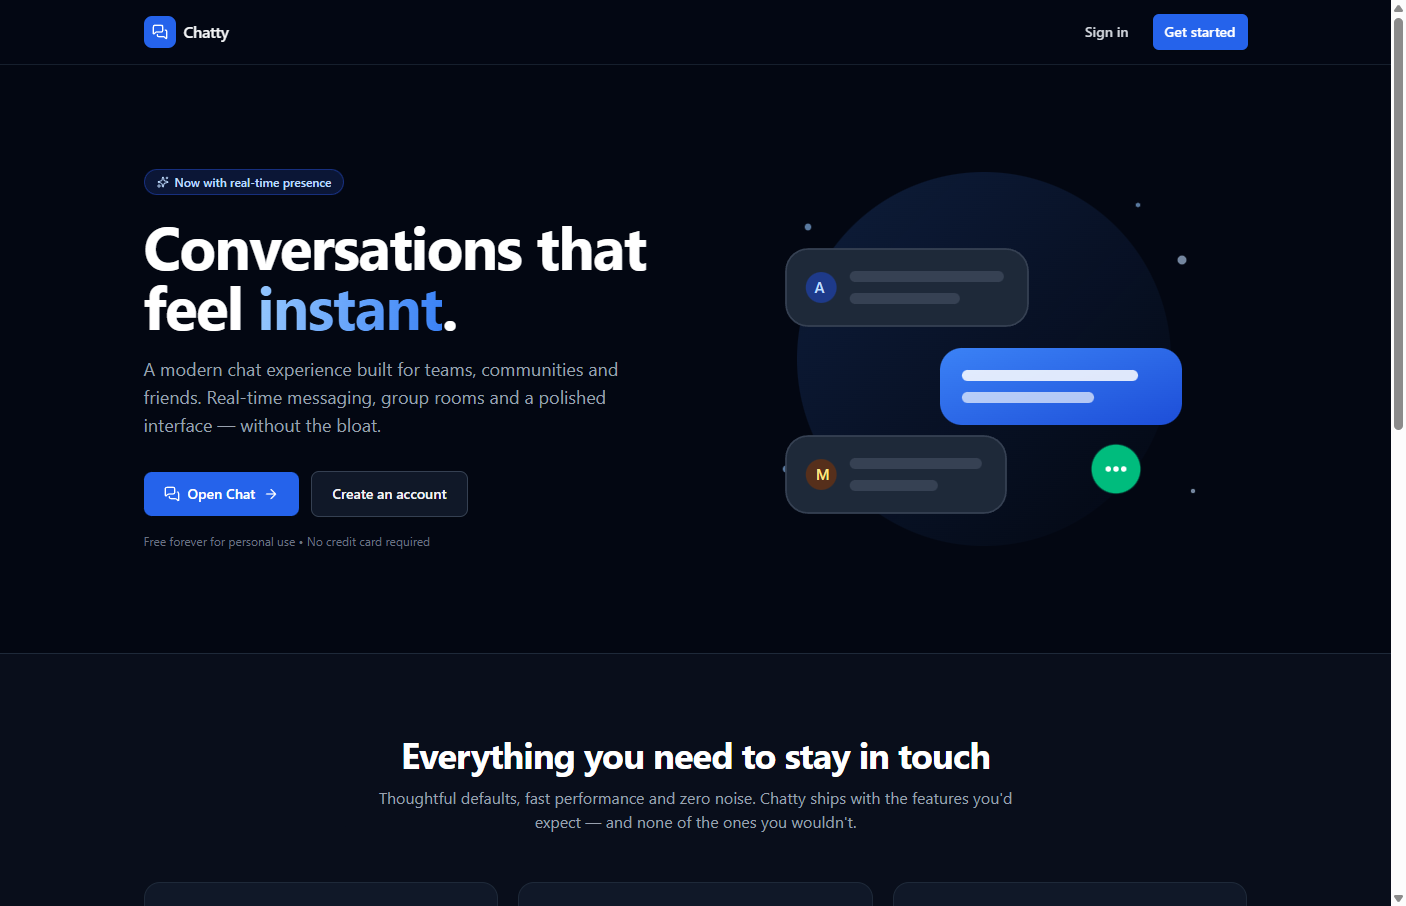
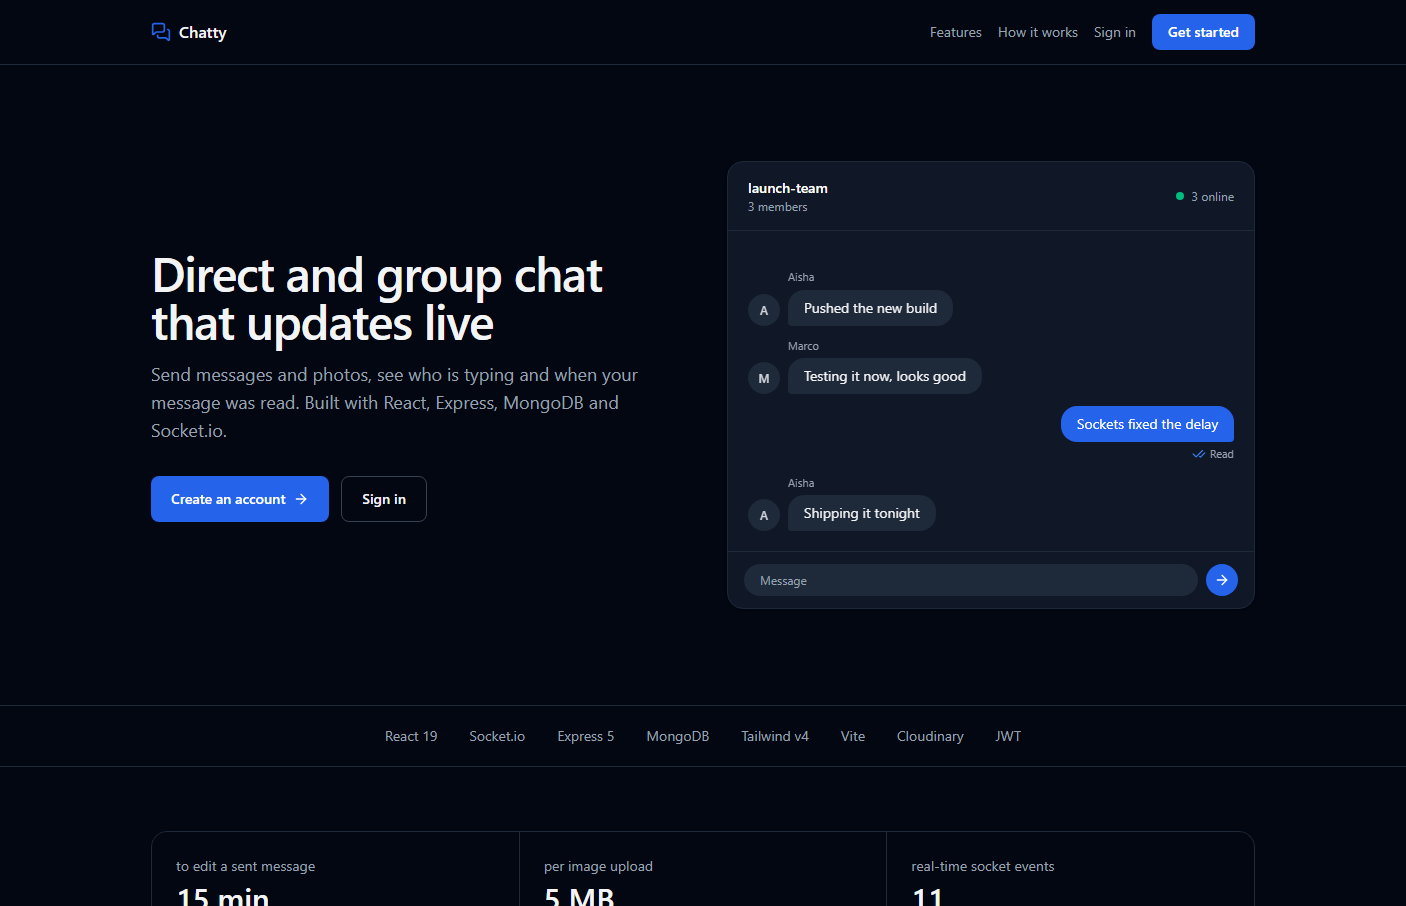
docs: redesign README with screenshots and diagrams

diff --git a/README.md b/README.md
@@ -1,105 +1,186 @@
+<div align="center">
+
 # Chatty
 
-A real-time chat app built with the MERN stack. Direct messages, group chats, typing indicators, read receipts, image sharing, and an admin panel for handling reports.
+**Direct and group chat that updates live.**
+Messages, typing indicators, read receipts and images, built on the MERN stack with Socket.io.
 
-Live demo: https://chat-app-mernn.netlify.app (the free Render backend sleeps when idle, so the first request can take about 30 seconds)
+[Live demo](https://chat-app-mernn.netlify.app) · [Screenshots](#screenshots) · [How it works](#how-it-works) · [Run it locally](#run-it-locally)
 
-![Chat screen](assets/screenshots/chat.png)
+<br />
 
-## Features
+<img src="assets/screenshots/chat.png" alt="Chatty chat screen in dark mode" width="900" />
 
-- Direct and group chats that update live over Socket.io
-- Typing indicator, online status, and sent/read ticks
-- Image messages (uploaded to Cloudinary), replies, reactions, and in-chat search
-- Edit a message for 15 minutes after sending, or delete it for everyone
-- Mute, archive, and block. You can hide your online status and read receipts
-- Notifications: in-app, browser, and sound
-- Admin panel: users, reports, suspensions, and an audit log of admin actions
-- Light and dark themes
+</div>
 
-## Stack
+<br />
 
-| Part | Tech |
+## What it does
+
+| | |
 |---|---|
-| Frontend | React 19, Vite, Tailwind CSS v4, React Router, Axios, socket.io-client |
-| Backend | Node, Express 5, Socket.io, Mongoose, JWT, bcrypt, express-validator |
-| Storage | MongoDB for data, Cloudinary for images |
-| Hosting | Netlify (client), Render (server) |
+| **Live messaging** | Messages arrive instantly over Socket.io, with typing indicators, online status and sent/read ticks |
+| **Groups** | Create a group, add people, promote admins, rename or leave |
+| **Rich messages** | Images (stored on Cloudinary), replies, reactions, edits within 15 minutes, delete for everyone |
+| **Search** | Find people by name, or search inside a conversation |
+| **Notifications** | In-app, browser and sound alerts, with per-chat mute |
+| **Privacy** | Hide your online status or read receipts, block users, report abuse |
+| **Admin panel** | Manage users, review reports, suspend accounts, and see an audit log of every admin action |
+| **Themes** | Light and dark, plus font size, density and reduced-motion settings |
 
-## How it fits together
+## Screenshots
 
+<table>
+  <tr>
+    <td width="50%"><img src="assets/screenshots/landing.png" alt="Landing page" /></td>
+    <td width="50%"><img src="assets/screenshots/chat-light.png" alt="Chat in light mode" /></td>
+  </tr>
+  <tr>
+    <td align="center"><sub>Landing page</sub></td>
+    <td align="center"><sub>Chat in light mode</sub></td>
+  </tr>
+  <tr>
+    <td width="50%"><img src="assets/screenshots/login.png" alt="Sign in" /></td>
+    <td width="50%"><img src="assets/screenshots/register.png" alt="Create account" /></td>
+  </tr>
+  <tr>
+    <td align="center"><sub>Sign in</sub></td>
+    <td align="center"><sub>Create account</sub></td>
+  </tr>
+</table>
+
+## How it works
+
+```mermaid
+flowchart LR
+    A["React app<br/>(Vite + Tailwind)"] -- "REST + JWT" --> B["Express API"]
+    A <-- "Socket.io<br/>(same JWT)" --> C["Socket server"]
+    B --> D[("MongoDB")]
+    C --> D
+    B -- "image upload" --> E[("Cloudinary")]
 ```
-React app  --HTTP (Axios + JWT)-->  Express API  ---->  MongoDB
-    ^                                   |
-    |                                   +--> Cloudinary (images)
-    +------- WebSocket (Socket.io) <----+
-```
 
-- **REST** handles anything that needs a reply: logging in, loading old messages, uploading images.
-- **Socket.io** pushes live events: new messages, typing, presence, read receipts, notifications.
-- Each user joins a socket room named after their user id, and each conversation has its own room. The server emits to a room, and everyone in it gets the event.
+The app talks to the server in two ways:
 
-### Login
-
-1. The client posts email and password to `/api/auth/login`.
-2. The server checks the password against the bcrypt hash and signs a JWT.
-3. The client stores the token, and an Axios interceptor sends it as `Authorization: Bearer <token>` on every request.
-4. The `protect` middleware verifies the token and loads the user, so a suspended user is blocked straight away.
-5. The socket connection sends the same token, so HTTP and WebSocket share one identity.
+- **REST** for anything that needs an answer: signing in, loading older messages, uploading an image.
+- **Socket.io** for anything the server needs to push: new messages, typing, presence, read receipts, notifications.
 
 ### Sending a message
 
-1. The client emits `message:send` over the socket.
-2. The server checks that the sender is in the conversation and is not blocked, then saves the message to MongoDB.
-3. The server emits `message:new` to the conversation room, so everyone in the chat sees it instantly.
-4. When the other person opens the chat, the client emits a read event and the sender's ticks turn blue.
+```mermaid
+sequenceDiagram
+    participant S as Sender
+    participant API as Socket server
+    participant DB as MongoDB
+    participant R as Everyone in the chat
+
+    S->>API: message:send { conversationId, text, clientTempId }
+    API->>API: validate, check the sender is in the chat and not blocked
+    API->>DB: save message
+    API-->>R: message:new to the chat room
+    API-->>S: ack with the saved message
+    Note over S: clientTempId swaps the "sending" bubble for the saved one
+```
+
+### Rooms
+
+When a socket connects, the server joins it to:
+
+- `user:<id>` for every tab and device of that user (notifications, forced logout)
+- `conv:<id>` for each conversation **the database says the user belongs to**
+
+The client never chooses its own rooms, so nobody can listen in on a chat they're not part of.
 
 ## Security
 
-- Passwords hashed with bcrypt, and the login error is the same for an unknown email and a wrong password
-- Every route validated with express-validator, with NoSQL injection sanitizing
-- Helmet headers, a CORS allow-list, and rate limits on auth, messages, and uploads
-- Uploads limited by MIME type and size
-- Users can't set their own `role` or `status`
+- Passwords hashed with bcrypt (cost 12). Login gives the same error for an unknown email and a wrong password
+- The JWT is checked on every request and on the socket handshake. Suspended users are cut off immediately
+- express-validator on every route, NoSQL-injection sanitizing, Helmet headers and a CORS allow-list
+- Separate rate limits for auth, messages and uploads
+- `role` and `status` can never be set from the request body
+
+## Tech
+
+| Frontend | Backend | Data and hosting |
+|---|---|---|
+| React 19, React Router | Node, Express 5 | MongoDB with Mongoose |
+| Vite, Tailwind CSS v4 | Socket.io | Cloudinary for images |
+| Axios, socket.io-client | JWT, bcrypt, express-validator | Netlify + Render |
 
 ## Run it locally
 
-You need Node 18.18+ and a MongoDB database (local or Atlas). Images need a free Cloudinary account.
+You need **Node 18.18+**, a **MongoDB** database (local or Atlas) and a free **Cloudinary** account for images.
 
 ```bash
 git clone https://github.com/jennyasync/chat-app-mern.git
 cd chat-app-mern
 
-cp server/.env.example server/.env   # fill in MONGO_URI, JWT_SECRET, Cloudinary keys
+cp server/.env.example server/.env
 cp client/.env.example client/.env
-
-cd server && npm install && npm run seed:admin && npm run dev   # http://localhost:5000
-cd client && npm install && npm run dev                         # http://localhost:5173 (second terminal)
 ```
 
-Health check: http://localhost:5000/api/health
+Fill in `server/.env`, then start both parts in two terminals:
 
-## Folders
+```bash
+cd server && npm install && npm run seed:admin && npm run dev   # API on http://localhost:5000
+```
+
+```bash
+cd client && npm install && npm run dev                         # app on http://localhost:5173
+```
+
+<details>
+<summary><b>Environment variables</b></summary>
+<br />
+
+**server/.env**
+
+| Variable | Example | Notes |
+|---|---|---|
+| `PORT` | `5000` | |
+| `CLIENT_URL` | `http://localhost:5173` | Allowed CORS origin |
+| `MONGO_URI` | `mongodb://localhost:27017/chat_app` | |
+| `JWT_SECRET` | 64 random hex characters | `node -e "console.log(require('crypto').randomBytes(32).toString('hex'))"` |
+| `JWT_EXPIRES_IN` | `7d` | |
+| `CLOUDINARY_CLOUD_NAME` / `_API_KEY` / `_API_SECRET` | | From your Cloudinary dashboard |
+| `ADMIN_EMAIL` / `ADMIN_USERNAME` / `ADMIN_PASSWORD` | | Used by `npm run seed:admin` |
+| `MAX_UPLOAD_SIZE_MB` | `5` | |
+
+**client/.env**
+
+| Variable | Example |
+|---|---|
+| `VITE_API_URL` | `http://localhost:5000/api` |
+| `VITE_SOCKET_URL` | `http://localhost:5000` |
+
+</details>
+
+<details>
+<summary><b>Project structure</b></summary>
+<br />
 
 ```
 server/
   index.js        Express app, middleware, routes, Socket.io setup
-  config/         env loading, Cloudinary
+  config/         env loading, database, Cloudinary
   models/         User, Conversation, Message, Notification, Report, AdminAuditLog
-  routes/         URL -> controller, with validators and rate limits
-  controllers/    request handlers
-  validators/     express-validator rules
-  middlewares/    auth, errors, uploads, rate limits
+  routes/         URL -> validator -> controller
+  controllers/    REST handlers
   sockets/        message, typing, presence and group events
-  utils/          shared services (messages, conversations, notifications)
+  utils/          rules shared by REST and sockets
+  middlewares/    auth, errors, uploads, rate limits
 client/src/
-  api/            Axios instance and one file per resource
+  api/            Axios instance, one file per resource
   contexts/       Auth, Socket, ChatState, Notifications, Preferences
   pages/          landing, auth, chat, profile, settings, admin
   components/     chat UI, layout, modals, shared pieces
   hooks/          small reusable hooks
 ```
 
-## License
+</details>
 
-MIT
+<br />
+
+<div align="center">
+<sub>Built by <a href="https://github.com/jennyasync">jennyasync</a> · MIT license</sub>
+</div>
